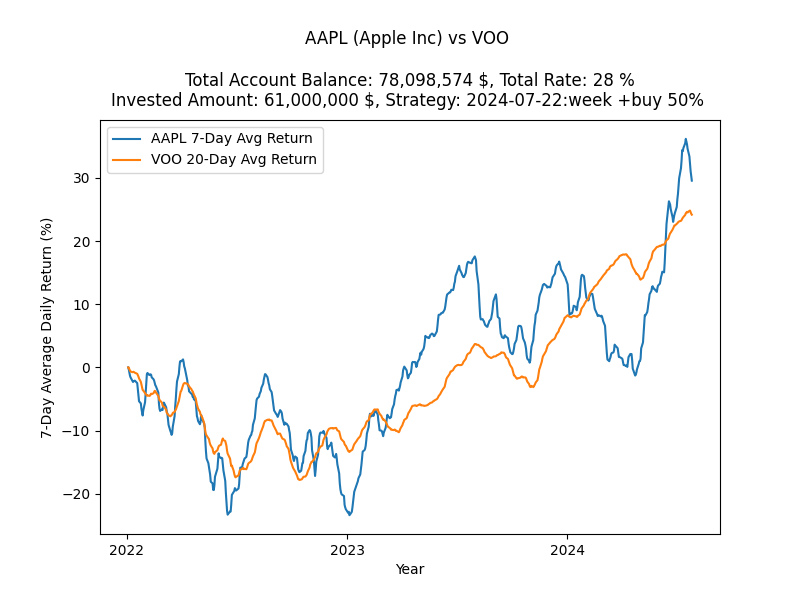
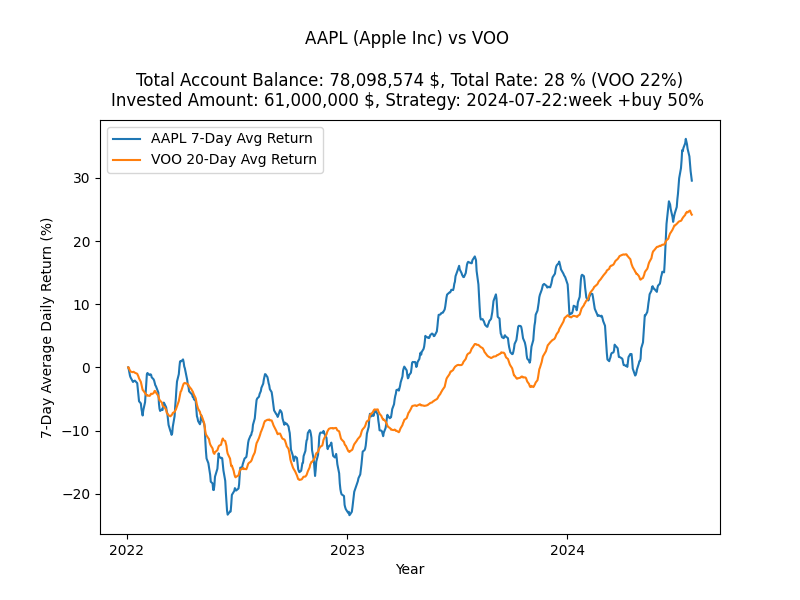
Auto-commit moved files

Changed region(s): [[0.1562, 0.12, 0.8438, 0.15]]

diff --git a/my-flask-app/Results_plot.py b/my-flask-app/Results_plot.py
@@ -1,5 +1,5 @@
 # Results_plot.py
-# Results_plot.py
+
 import matplotlib.dates as dates
 import matplotlib
 matplotlib.use('Agg')
@@ -117,6 +117,9 @@ def plot_comparison_results(file_path1, file_path2, stock1, stock2, total_accoun
     ax2.plot(df1.index, df1['rate_7d_avg'], label=f'{stock1} 7-Day Avg Return')
     ax2.plot(df2.index, df2['rate_20d_avg'], label=f'{stock2} 20-Day Avg Return')
 
+    # VOO의 총 수익률 계산
+    voo_rate = df2['rate_vs'].iloc[-1] if not df2.empty else 0
+
     # 레이블, 제목, 범례 설정
     plt.ylabel('7-Day Average Daily Return (%)')
     plt.legend(loc='upper left')
@@ -125,7 +128,7 @@ def plot_comparison_results(file_path1, file_path2, stock1, stock2, total_accoun
     stock2_name = get_ticker_name(stock2)
 
     plt.title(f"{stock1} ({stock1_name}) vs {stock2} \n" +
-              f"\nTotal Account Balance: {total_account_balance:,.0f} $, Total Rate: {total_rate:,.0f} %\n" +
+              f"\nTotal Account Balance: {total_account_balance:,.0f} $, Total Rate: {total_rate:,.0f} % (VOO {voo_rate:,.0f}%)\n" +
               f"Invested Amount: {invested_amount:,.0f} $, Strategy: {str_strategy}",
               pad=10)  # 제목과 그래프 사이의 여백을 추가합니다.
 
@@ -163,6 +166,7 @@ def plot_comparison_results(file_path1, file_path2, stock1, stock2, total_accoun
         print('Discord 메시지 전송 실패')
     else:
         print('Discord 메시지 전송 성공')
+
 
 
 import time  # 추가
